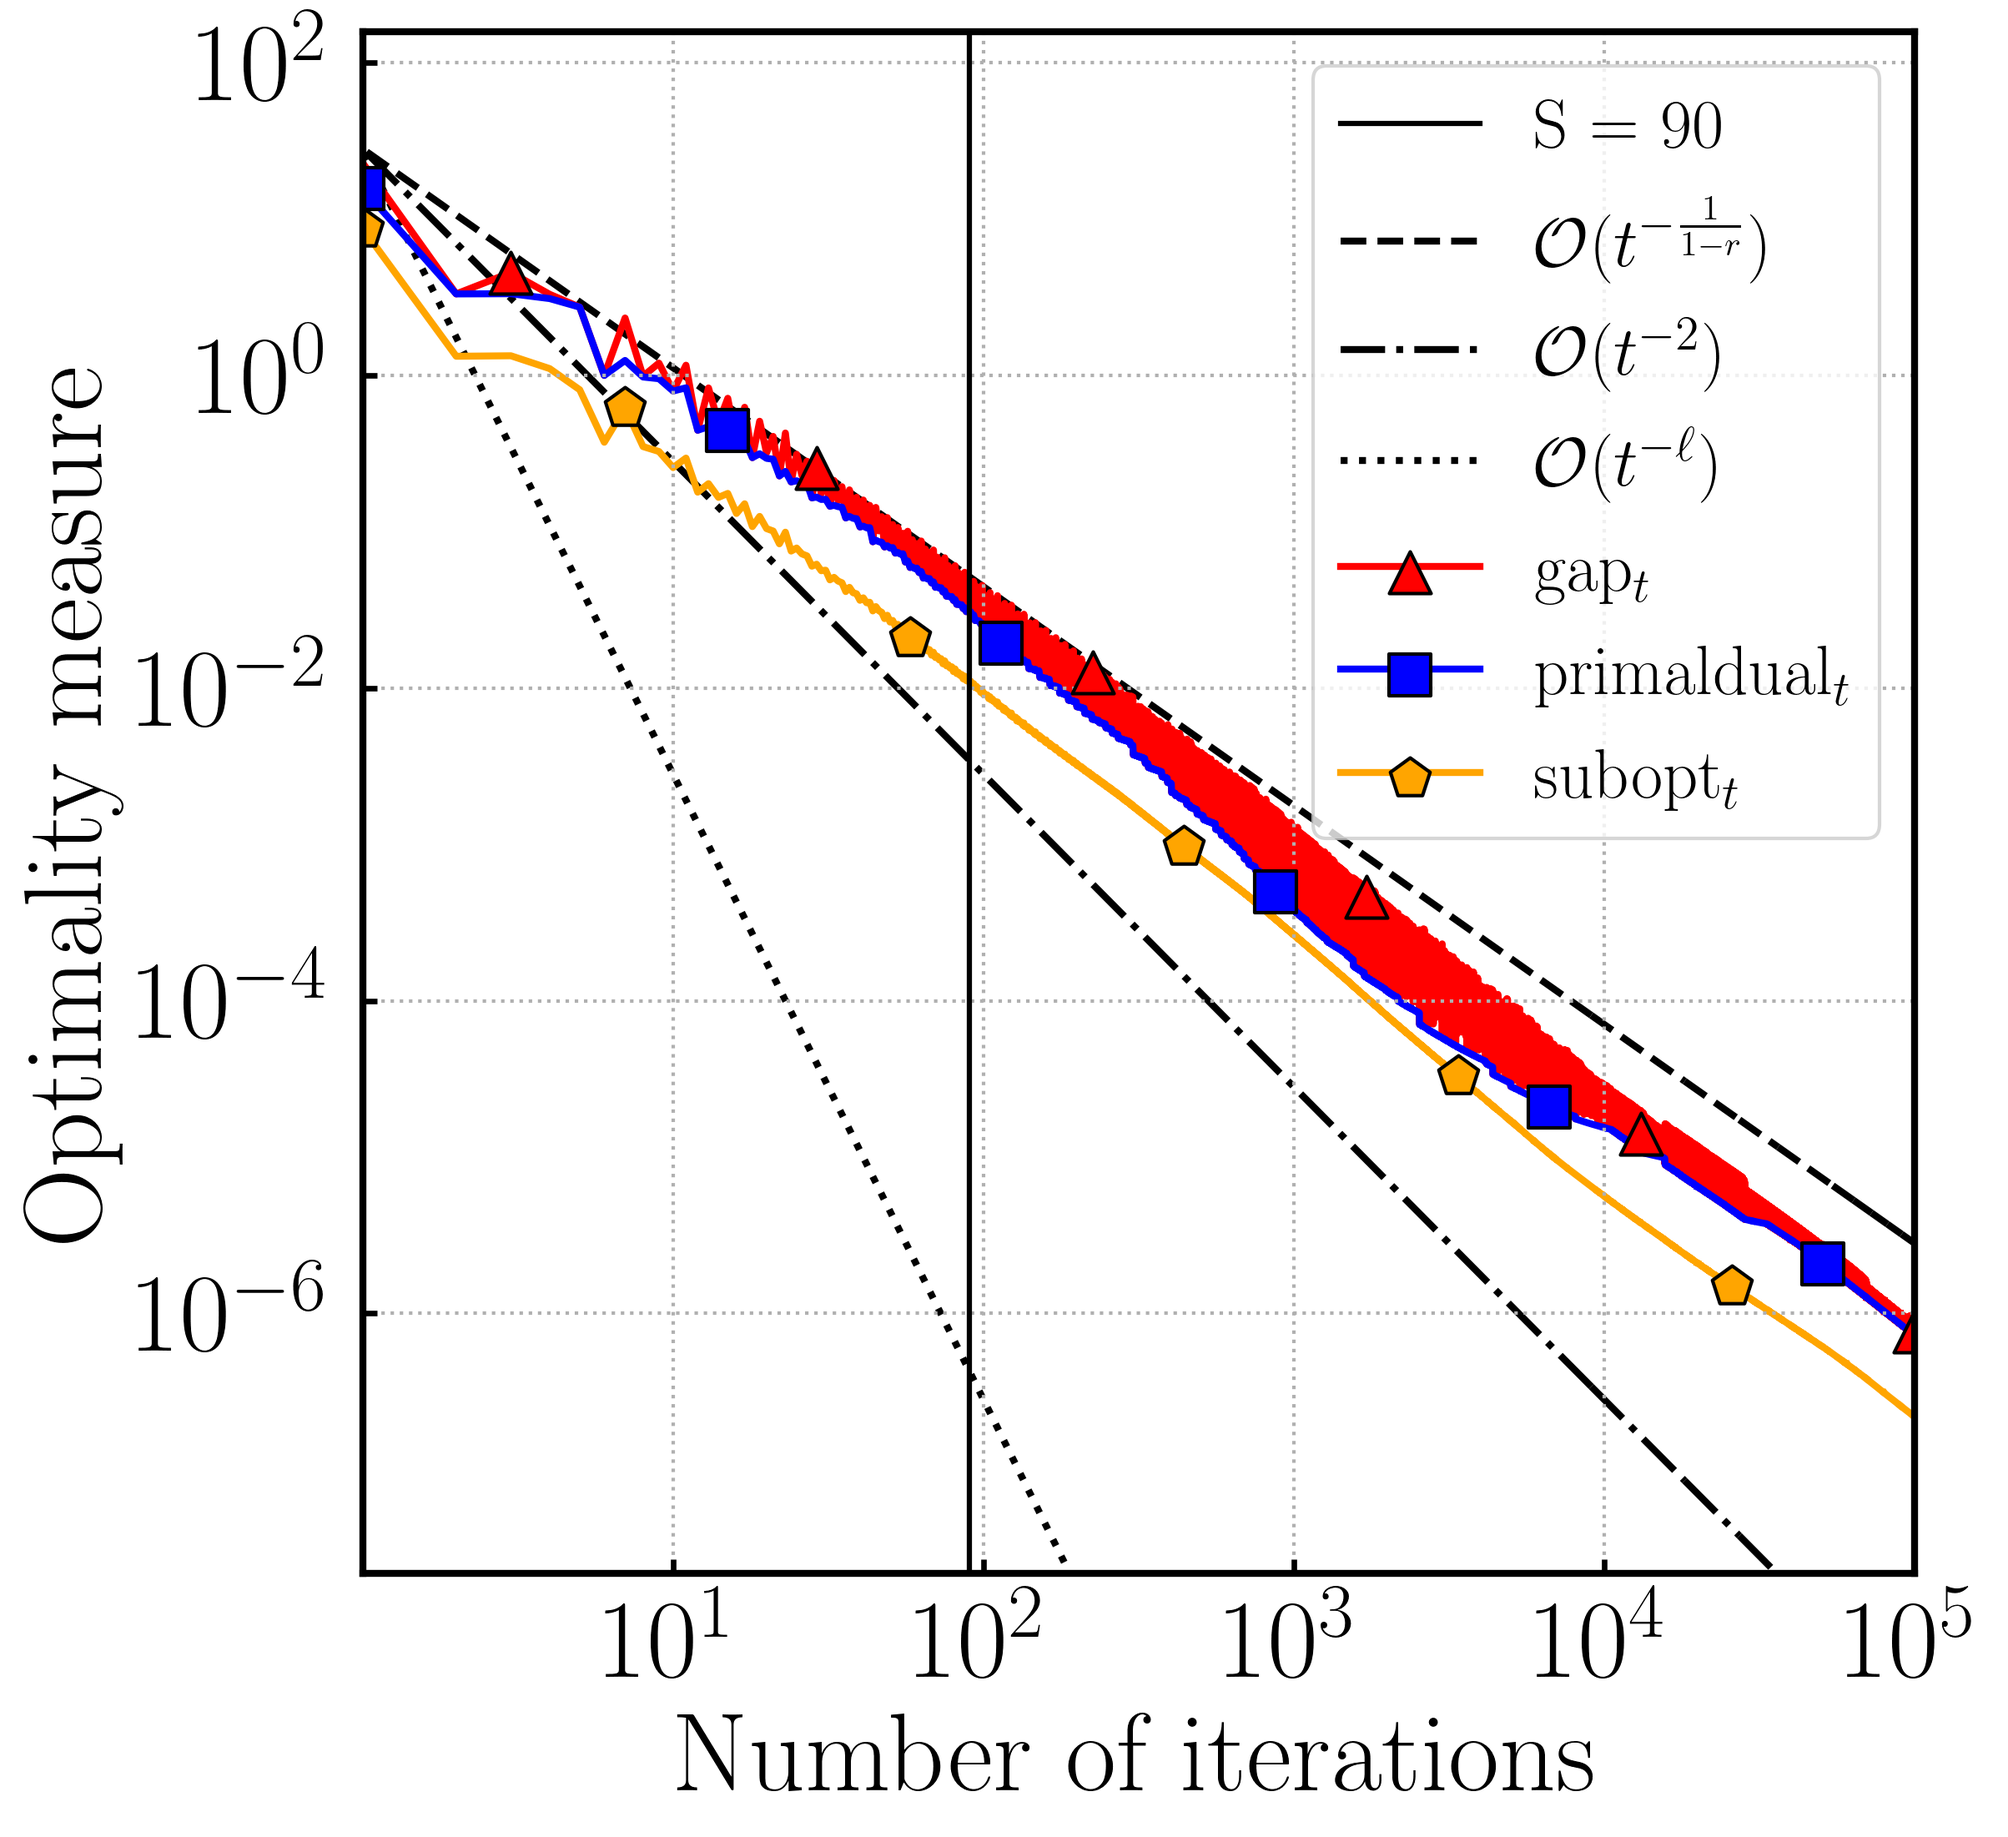
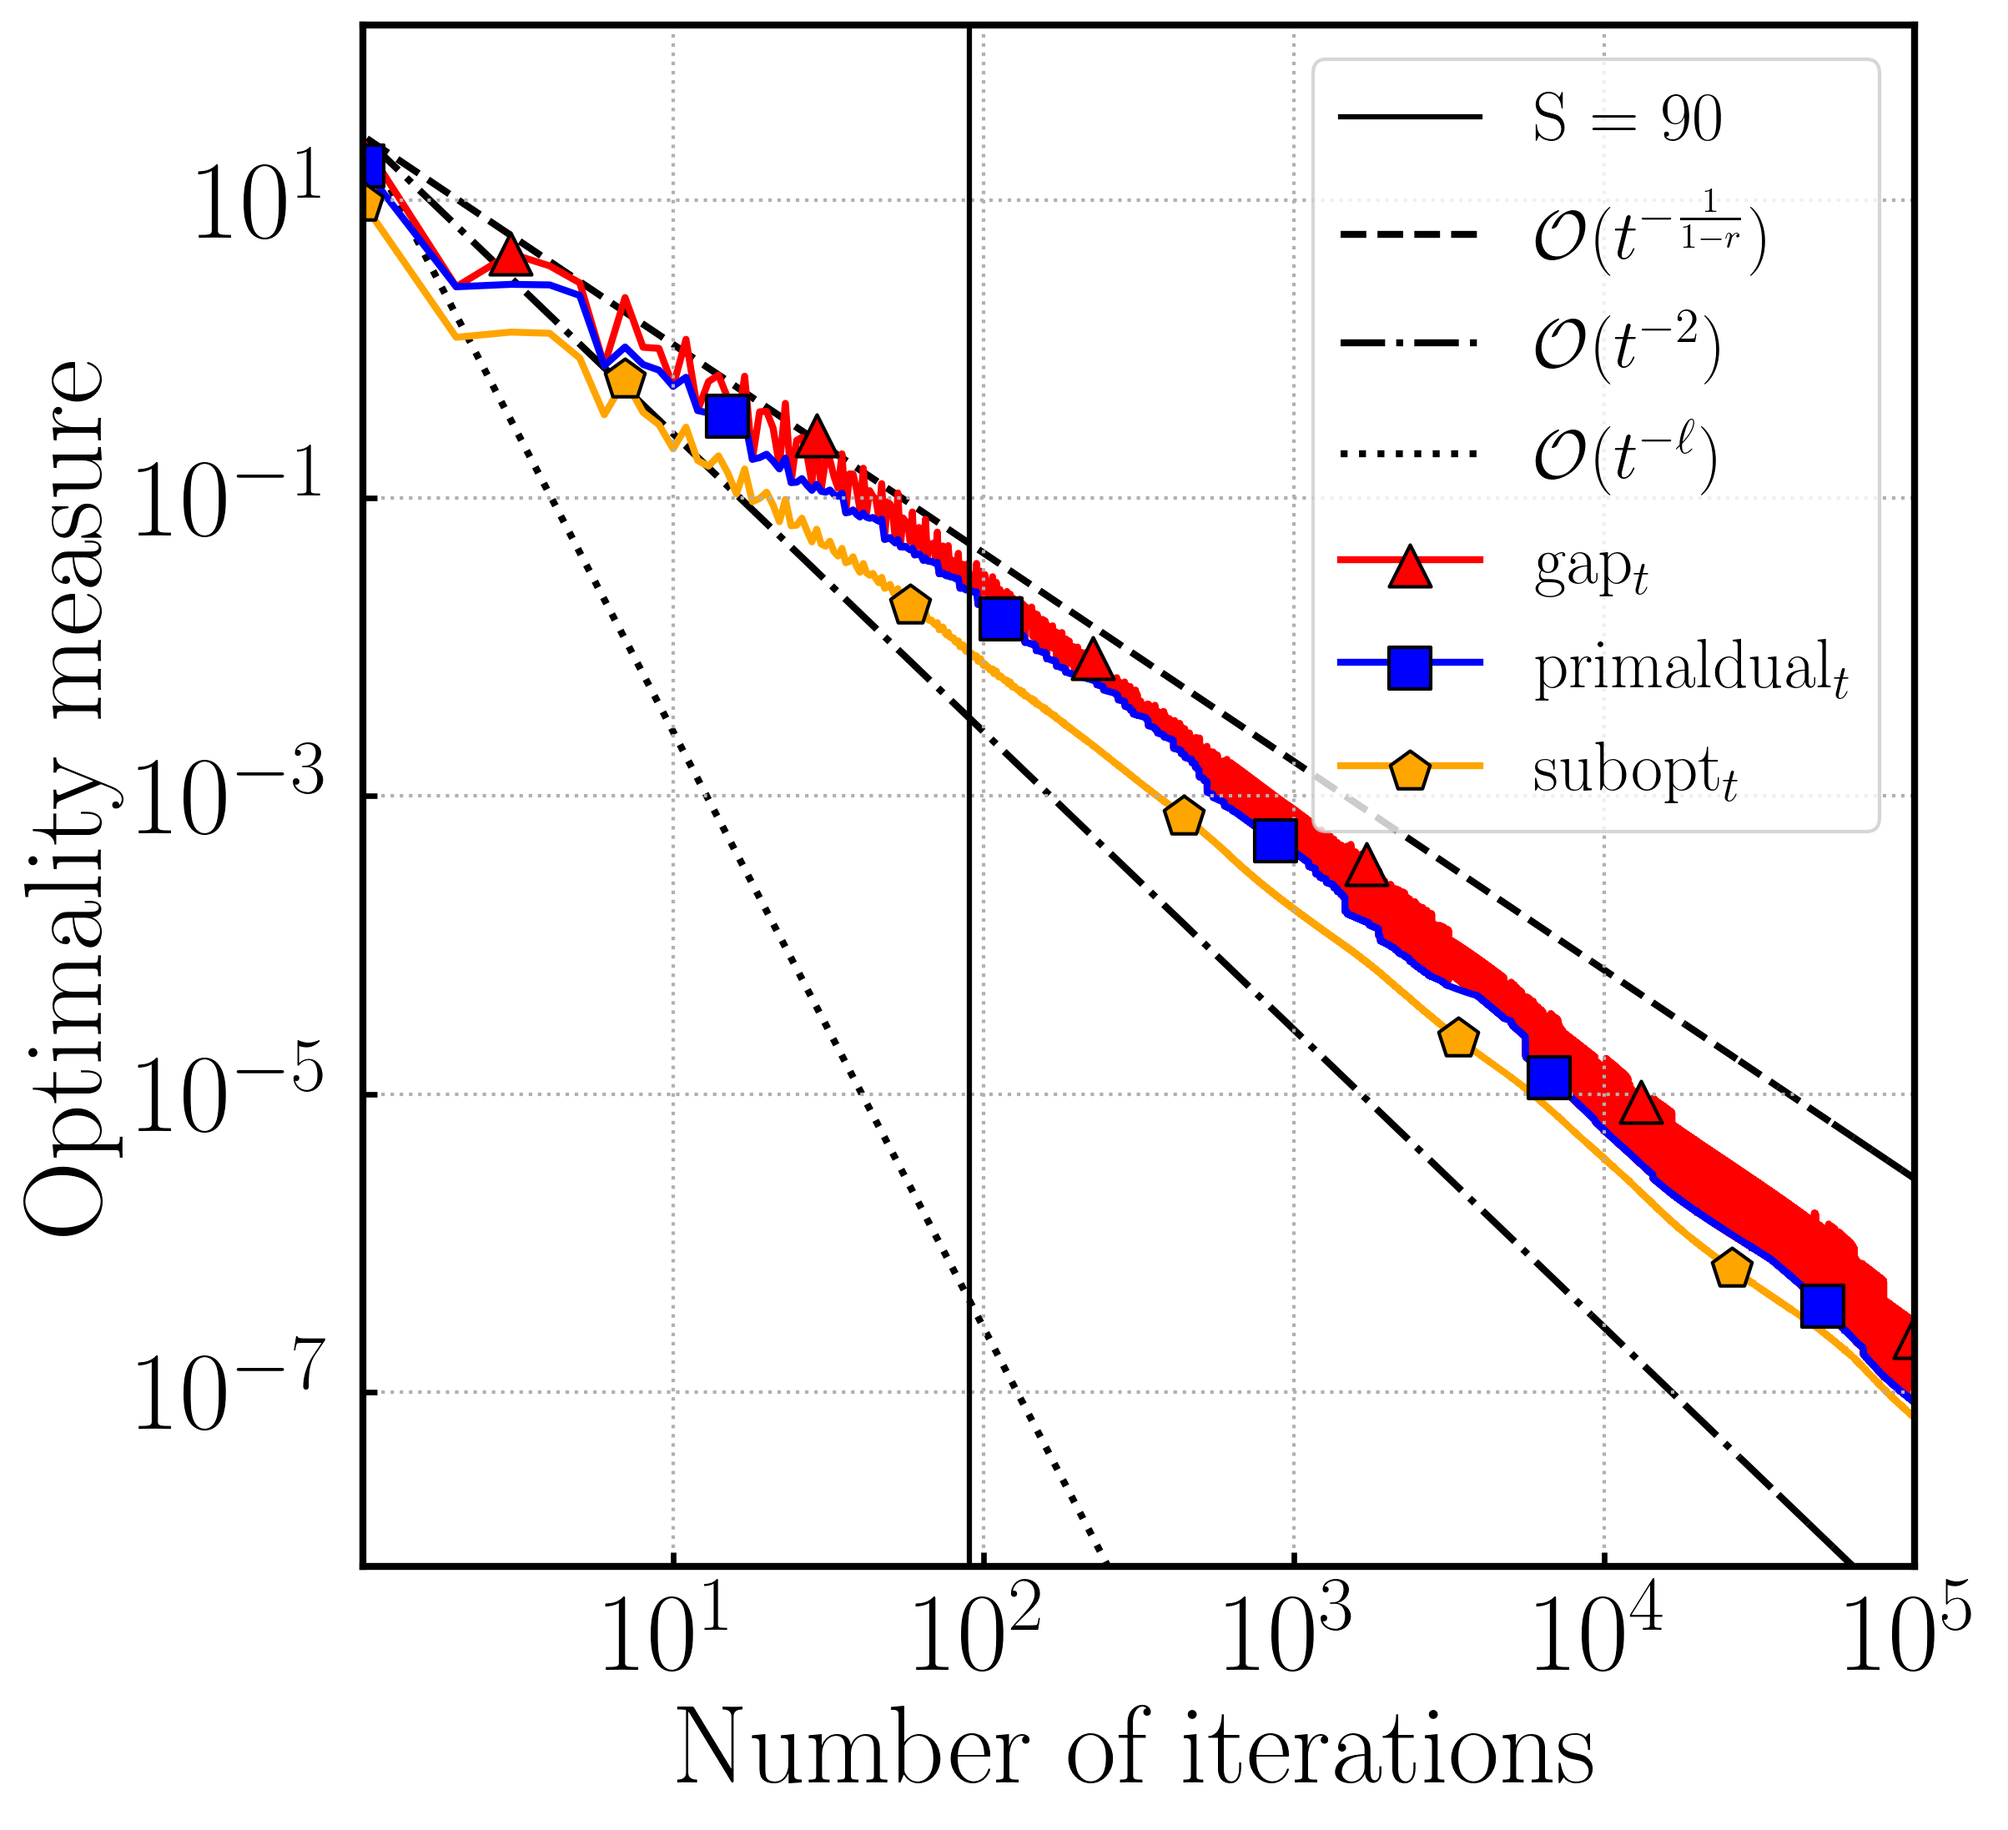
.

diff --git a/experiments/polytope_ls_ol.py b/experiments/polytope_ls_ol.py
@@ -39,16 +39,14 @@ A = np.identity(DIMENSION)
 objective_function = SquaredLoss(A=A, b=y)
 feasible_region = LpBall(dimension=DIMENSION, p=1)
 
-all_primal_gaps, all_dual_gaps, all_primal_dual_gaps, _ = run_experiment(ITERATIONS_MANY, objective_function,
+all_primal_gaps, all_dual_gaps, all_primal_dual_gaps, _ = run_experiment(ITERATIONS, objective_function,
                                                                          feasible_region,
-                                                                         run_more=RUN_MORE_MANY,
+                                                                         run_more=RUN_MORE,
                                                                          fw_step_size_rules=fw_step_size_rules)
-print(all_primal_gaps)
-all_primal_gaps = [primal_gap[1:ITERATIONS_MANY] for primal_gap in all_primal_gaps]
-all_dual_gaps = [dual_gap[1:ITERATIONS_MANY] for dual_gap in all_dual_gaps]
-all_primal_dual_gaps = [primal_dual_gap[1:ITERATIONS_MANY] for primal_dual_gap in all_primal_dual_gaps]
+all_primal_gaps = [primal_gap[1:ITERATIONS] for primal_gap in all_primal_gaps]
+all_dual_gaps = [dual_gap[1:ITERATIONS] for dual_gap in all_dual_gaps]
+all_primal_dual_gaps = [primal_dual_gap[1:ITERATIONS] for primal_dual_gap in all_primal_dual_gaps]
 
-print(all_primal_gaps)
 gap_0 = max([max(i) for i in all_dual_gaps])
 all_primal_gaps, labels, styles, colors, markers = create_reference_lines_automatically(
     all_primal_gaps, labels, None, None, gap_0, colors=COLORS_ALTERNATIVE_2)
@@ -59,9 +57,9 @@ file_name = ("polytope_ls_ol" + "_l1_ball" + "_rho=" + str(rho) + "_kappa=" + st
 y_label = "subopt" + r"$_t$"
 gap_plotter(y_data=all_primal_gaps,
             labels=labels,
-            iterations=ITERATIONS_MANY,
+            iterations=ITERATIONS,
             file_name=("subopt_" + file_name),
-            x_lim=(1, ITERATIONS_MANY),
+            x_lim=(1, ITERATIONS),
             y_lim=determine_y_lims(all_primal_gaps),
             y_label=y_label,
             directory="experiments/figures/",
@@ -74,9 +72,9 @@ gap_plotter(y_data=all_primal_gaps,
 y_label = "gap" + r"$_t$"
 gap_plotter(y_data=all_dual_gaps,
             labels=labels,
-            iterations=ITERATIONS_MANY,
+            iterations=ITERATIONS,
             file_name=("gap_" + file_name),
-            x_lim=(1, ITERATIONS_MANY),
+            x_lim=(1, ITERATIONS),
             y_lim=determine_y_lims(all_dual_gaps),
             y_label=y_label,
             directory="experiments/figures/",
@@ -89,9 +87,9 @@ gap_plotter(y_data=all_dual_gaps,
 y_label = "primaldual" + r"$_t$"
 gap_plotter(y_data=all_primal_dual_gaps,
             labels=labels,
-            iterations=ITERATIONS_MANY,
+            iterations=ITERATIONS,
             file_name=("primaldual_" + file_name),
-            x_lim=(1, ITERATIONS_MANY),
+            x_lim=(1, ITERATIONS),
             y_lim=determine_y_lims(all_primal_dual_gaps),
             y_label=y_label,
             directory="experiments/figures/",

diff --git a/experiments/regression.py b/experiments/regression.py
@@ -55,13 +55,13 @@ for p in ps:
             radius = optimum_norm * 1/2
         feasible_region = LpBall(dimension=A.shape[1], p=p, radius=radius)
         fw_step_size_rules = [{"step type": "open-loop", "a": l, "b": 1, "c": l, "d": 1}]
-        primal_gaps, dual_gaps, primal_dual_gaps, _ = run_experiment(ITERATIONS_MANY, objective_function, feasible_region,
-                                                              run_more=RUN_MORE_MANY,
+        primal_gaps, dual_gaps, primal_dual_gaps, _ = run_experiment(ITERATIONS, objective_function, feasible_region,
+                                                              run_more=RUN_MORE,
                                                               fw_step_size_rules=fw_step_size_rules)
         labels.append(location)
-        all_primal_gaps.append(primal_gaps[0][1:ITERATIONS_MANY])
-        all_dual_gaps.append(dual_gaps[0][1:ITERATIONS_MANY])
-        all_primal_dual_gaps.append(primal_dual_gaps[0][1:ITERATIONS_MANY])
+        all_primal_gaps.append(primal_gaps[0][1:ITERATIONS])
+        all_dual_gaps.append(dual_gaps[0][1:ITERATIONS])
+        all_primal_dual_gaps.append(primal_dual_gaps[0][1:ITERATIONS])
 
     gap_0 = max([max(i) for i in all_dual_gaps])
     all_primal_gaps, labels, styles, colors, markers = create_reference_lines_automatically(
@@ -74,9 +74,9 @@ for p in ps:
     y_label = "subopt" + r"$_t$"
     gap_plotter(y_data=all_primal_gaps,
                 labels=labels,
-                iterations=ITERATIONS_MANY,
+                iterations=ITERATIONS,
                 file_name=("subopt_" + file_name),
-                x_lim=(1, ITERATIONS_MANY),
+                x_lim=(1, ITERATIONS),
                 y_lim=determine_y_lims([all_primal_gaps[-1]]),
                 y_label=y_label,
                 directory="experiments/figures/",
@@ -89,9 +89,9 @@ for p in ps:
     y_label = "gap" + r"$_t$"
     gap_plotter(y_data=all_dual_gaps,
                 labels=labels,
-                iterations=ITERATIONS_MANY,
+                iterations=ITERATIONS,
                 file_name=("gap_" + file_name),
-                x_lim=(1, ITERATIONS_MANY),
+                x_lim=(1, ITERATIONS),
                 y_lim=determine_y_lims(all_dual_gaps),
                 y_label=y_label,
                 directory="experiments/figures/",
@@ -104,9 +104,9 @@ for p in ps:
     y_label = "primaldual" + r"$_t$"
     gap_plotter(y_data=all_primal_dual_gaps,
                 labels=labels,
-                iterations=ITERATIONS_MANY,
+                iterations=ITERATIONS,
                 file_name=("primaldual_" + file_name),
-                x_lim=(1, ITERATIONS_MANY),
+                x_lim=(1, ITERATIONS),
                 y_lim=determine_y_lims(all_primal_dual_gaps),
                 y_label=y_label,
                 directory="experiments/figures/",
